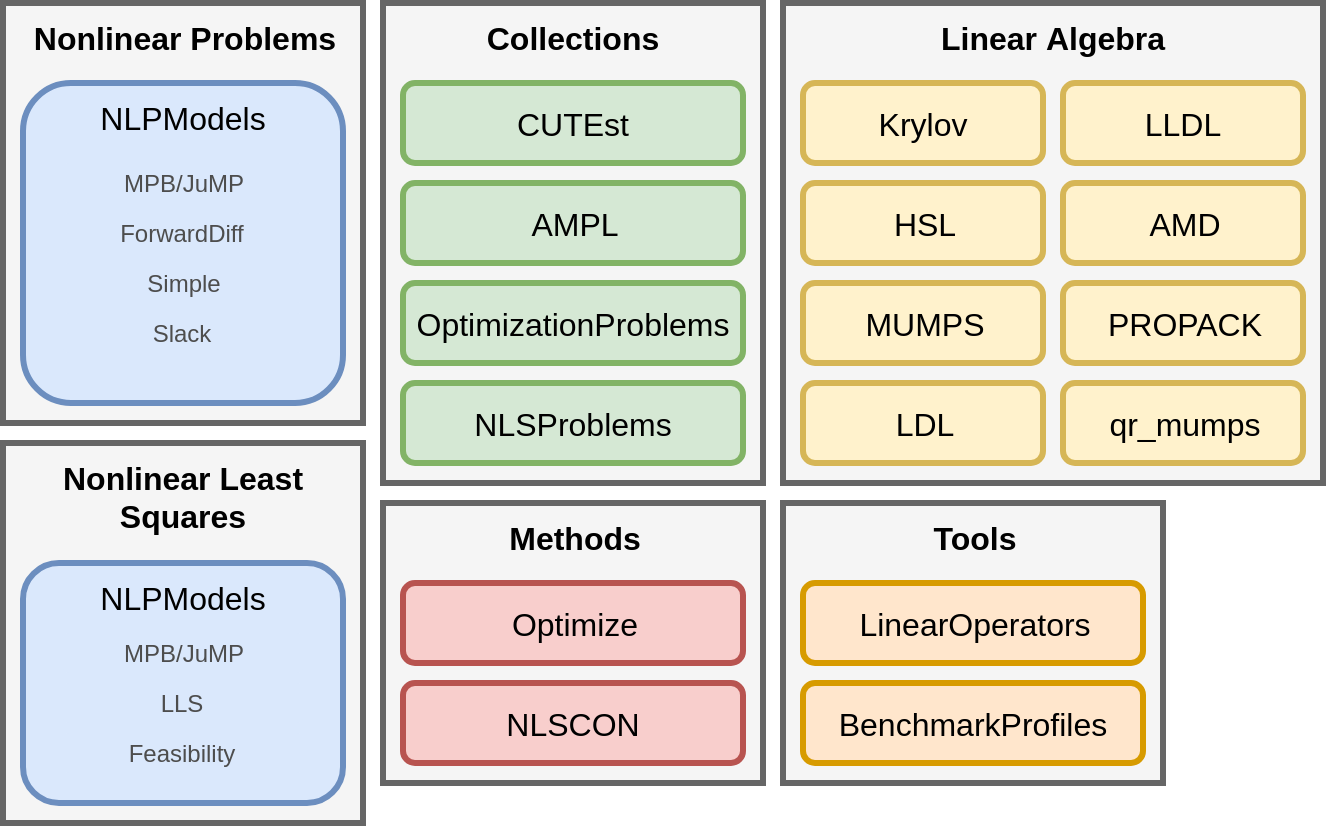
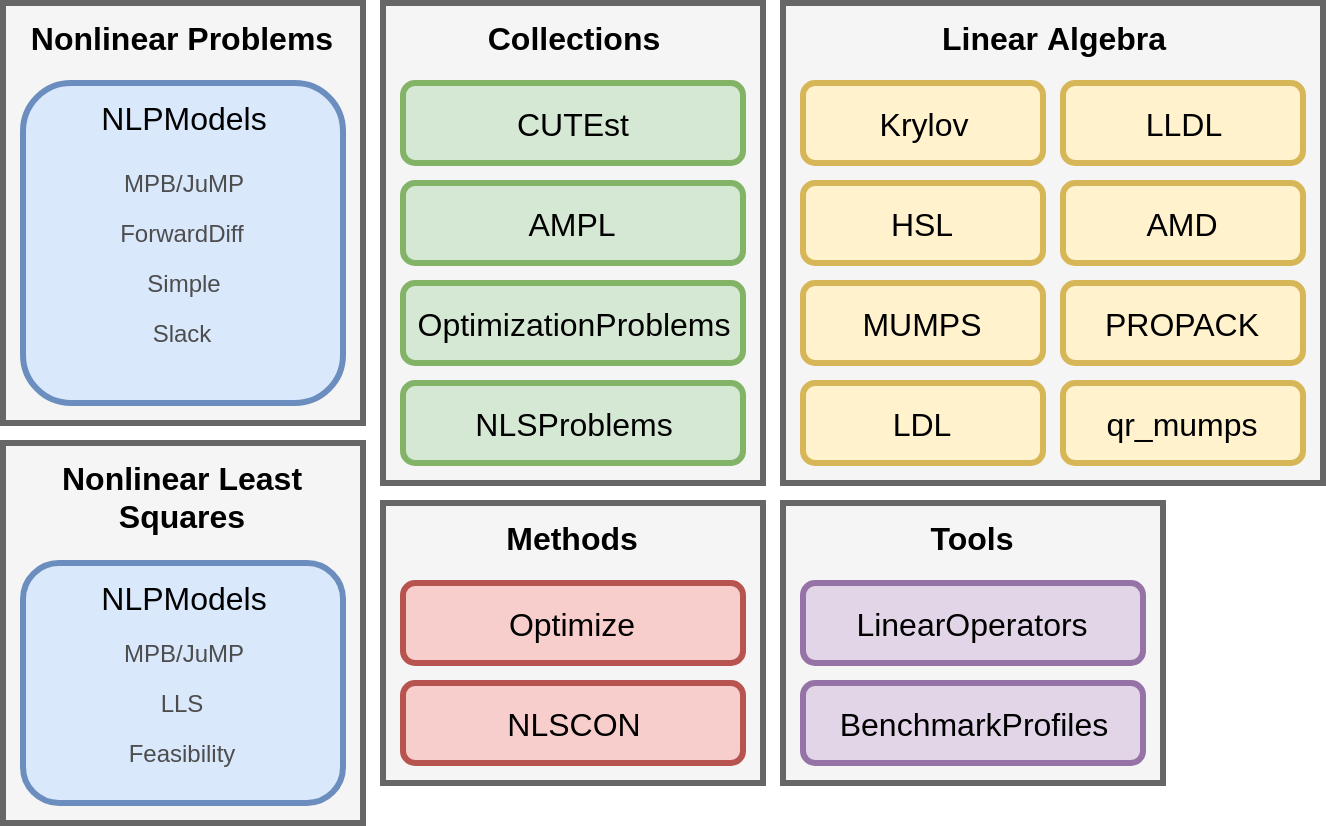
Fix typos, update packages

diff --git a/index.html b/index.html
@@ -2,22 +2,21 @@
 layout: default
 main: "yes"
 packages:
-- nlpmodels
-- cutest
-- linearoperators
-- krylov
-- optimize
-- benchmarkprofiles
-- amplnlreader
-- optimizationproblems
-- nlsproblems
-- ldl
-- lldl
-- amd
-- hsl
-- mumps
-- propack
-- qr_mumps
+- name: "Model creation"
+  key: model-creation
+  list: [nlpmodels]
+- name: "Collections"
+  key: collections
+  list: [cutest, amplnlreader, optimizationproblems, nlsproblems]
+- name: "Methods"
+  key: methods
+  list: [optimize]
+- name: "Tools"
+  key: tools
+  list: [linearoperators, benchmarkprofiles]
+- name: "Linear Algebra"
+  key: linear-algebra
+  list: [amd, hsl, krylov, ldl, lldl, mumps, propack, qr_mumps]
 refs:
 - "Publications"
 - "Talks"
@@ -98,7 +97,7 @@ links:
           <li>In green, packages providing access to problems from different
             collections.</li>
           <li>In red, <strong>Optimize.jl</strong> containing implemented solvers.
-            NLSCON is an unnanounced solved.</li>
+            NLSCON is an unnanounced solver.</li>
           <li>In yellow, linear algebra packages, including
             <strong>Krylov.jl</strong> with iterative solvers and many factorization
             packages.</li>
@@ -115,31 +114,7 @@ links:
   </div>
 </div>
 
-<!-- Packages -->
-<div class="container-fluid bg3">
-  <div class="container wall">
-    <div id="packages" class="row header-buffer"></div>
-    <div class="row">
-      <div class="col">
-        <h1> Packages </h1>
-      </div>
-    </div>
-<div class="row badges">
-{% for p in page.packages %}
-{% assign d = site.data.packages[p] %}
-{% assign name = d.name %}
-<div class="badge-col col-sm-12 col-lg-6">
-<h3> {{ name }}
-<a href="https://github.com/JuliaSmoothOptimizers/{{ name }}.jl">
-  <img class="github" src="{{site.baseurl}}/assets/github.png">
-</a>
-</h3>
-<p class="text-justify"> {{ site.data.packages[p].description }} </p>
-</div>
-{% endfor %}
-</div>
-  </div>
-</div>
+{% include packages.html %}
 
 <!-- Tutorials -->
 <div class="container-fluid bg4">
@@ -185,7 +160,11 @@ links:
             {% if r.author %}
             <span class="author">{{ r.author }},</span>
             {% endif %}
+            {% if type_ref == "Talks" %}
+            <span class="date">{{ r.date | date: "%b %d, %Y" }}.</span>
+            {% else %}
             <span class="date">{{ r.date | date: "%b, %Y" }}.</span>
+            {% endif %}
             <span class="where">{{ r.where }}.</span>
           </li>
           {% endfor %}

diff --git a/_includes/packages.html b/_includes/packages.html
@@ -1,0 +1,31 @@
+
+<!-- Packages -->
+<div class="container-fluid bg3">
+  <div class="container wall">
+    <div id="packages" class="row header-buffer"></div>
+    <div class="row">
+      <div class="col">
+        <h1> Packages </h1>
+      </div>
+    </div>
+    {% for p in page.packages %}
+    <h3 class="packs pack-{{p.key}}">{{ p.name }}</h3>
+    <div class="row text-left packages">
+      <div class="col pack-col">
+        {% for pl in p.list %}
+        {% assign d = site.data.packages[pl] %}
+        {% assign name = d.name %}
+        <p class="text-justify">
+        <span class="pack-name"> {{ name }}
+          <a href="https://github.com/JuliaSmoothOptimizers/{{ name }}.jl">
+            <img class="github img-fluid" src="{{site.baseurl}}/assets/github.png">
+          </a>
+        </span>
+        {{ d.description }}
+        </p>
+        {% endfor %}
+      </div>
+    </div>
+    {% endfor %}
+  </div>
+</div>

diff --git a/_sass/_base.scss b/_sass/_base.scss
@@ -191,20 +191,49 @@ a {
   border-color: darken($bg-color-5, 10);
 }
 
-// Badges
-.badges {
+// Packages
+.packages {
   p {
-    margin: 4px;
+    margin: 10px;
   }
   .github {
-    height: 32px;
+    height: 24px;
   }
 }
 
-.badge-col {
-  border-width: 2px 0px 0px 0px;
+.packs {
+  border-width: 3px;
+  border-radius: 5px;
   border-style: solid;
-  border-image: linear-gradient(to right, mix(white, $bg-color-3, 80), $bg-color-3, mix(white, $bg-color-3, 80)) 1 1;
+}
+
+.pack-model-creation {
+  border-color: #6C8EBF;
+  background-color: #DAE8FC;
+}
+
+.pack-collections {
+  border-color: #82b366;
+  background-color: #d5e8d4;
+}
+
+.pack-methods {
+  border-color: #b85450;
+  background-color: #f8cecc;
+}
+
+.pack-linear-algebra {
+  border-color: #d6b656;
+  background-color: #fff2cc;
+}
+
+.pack-tools {
+  border-color: #9673A6;
+  background-color: #E1D5E7;
+}
+
+.pack-name {
+  font-weight: bold;
 }
 
 .jso-description {

diff --git a/_includes/header.html b/_includes/header.html
@@ -8,13 +8,13 @@
       <!-- Menu for large devices -->
       <div class="d-none d-lg-block">
         {% for p in page.links %}
-        <button class="tablink">
+        <span class="tablink">
             {% if p.link == "home" %}
             <a href="{{site.baseurl}}/">{{p.name}}</a>
             {% else %}
             <a href="{{p.link}}">{{p.name}}</a>
             {% endif %}
-        </button>
+        </span>
         {% endfor %}
       </div>
       <!-- Menu for small devices -->
